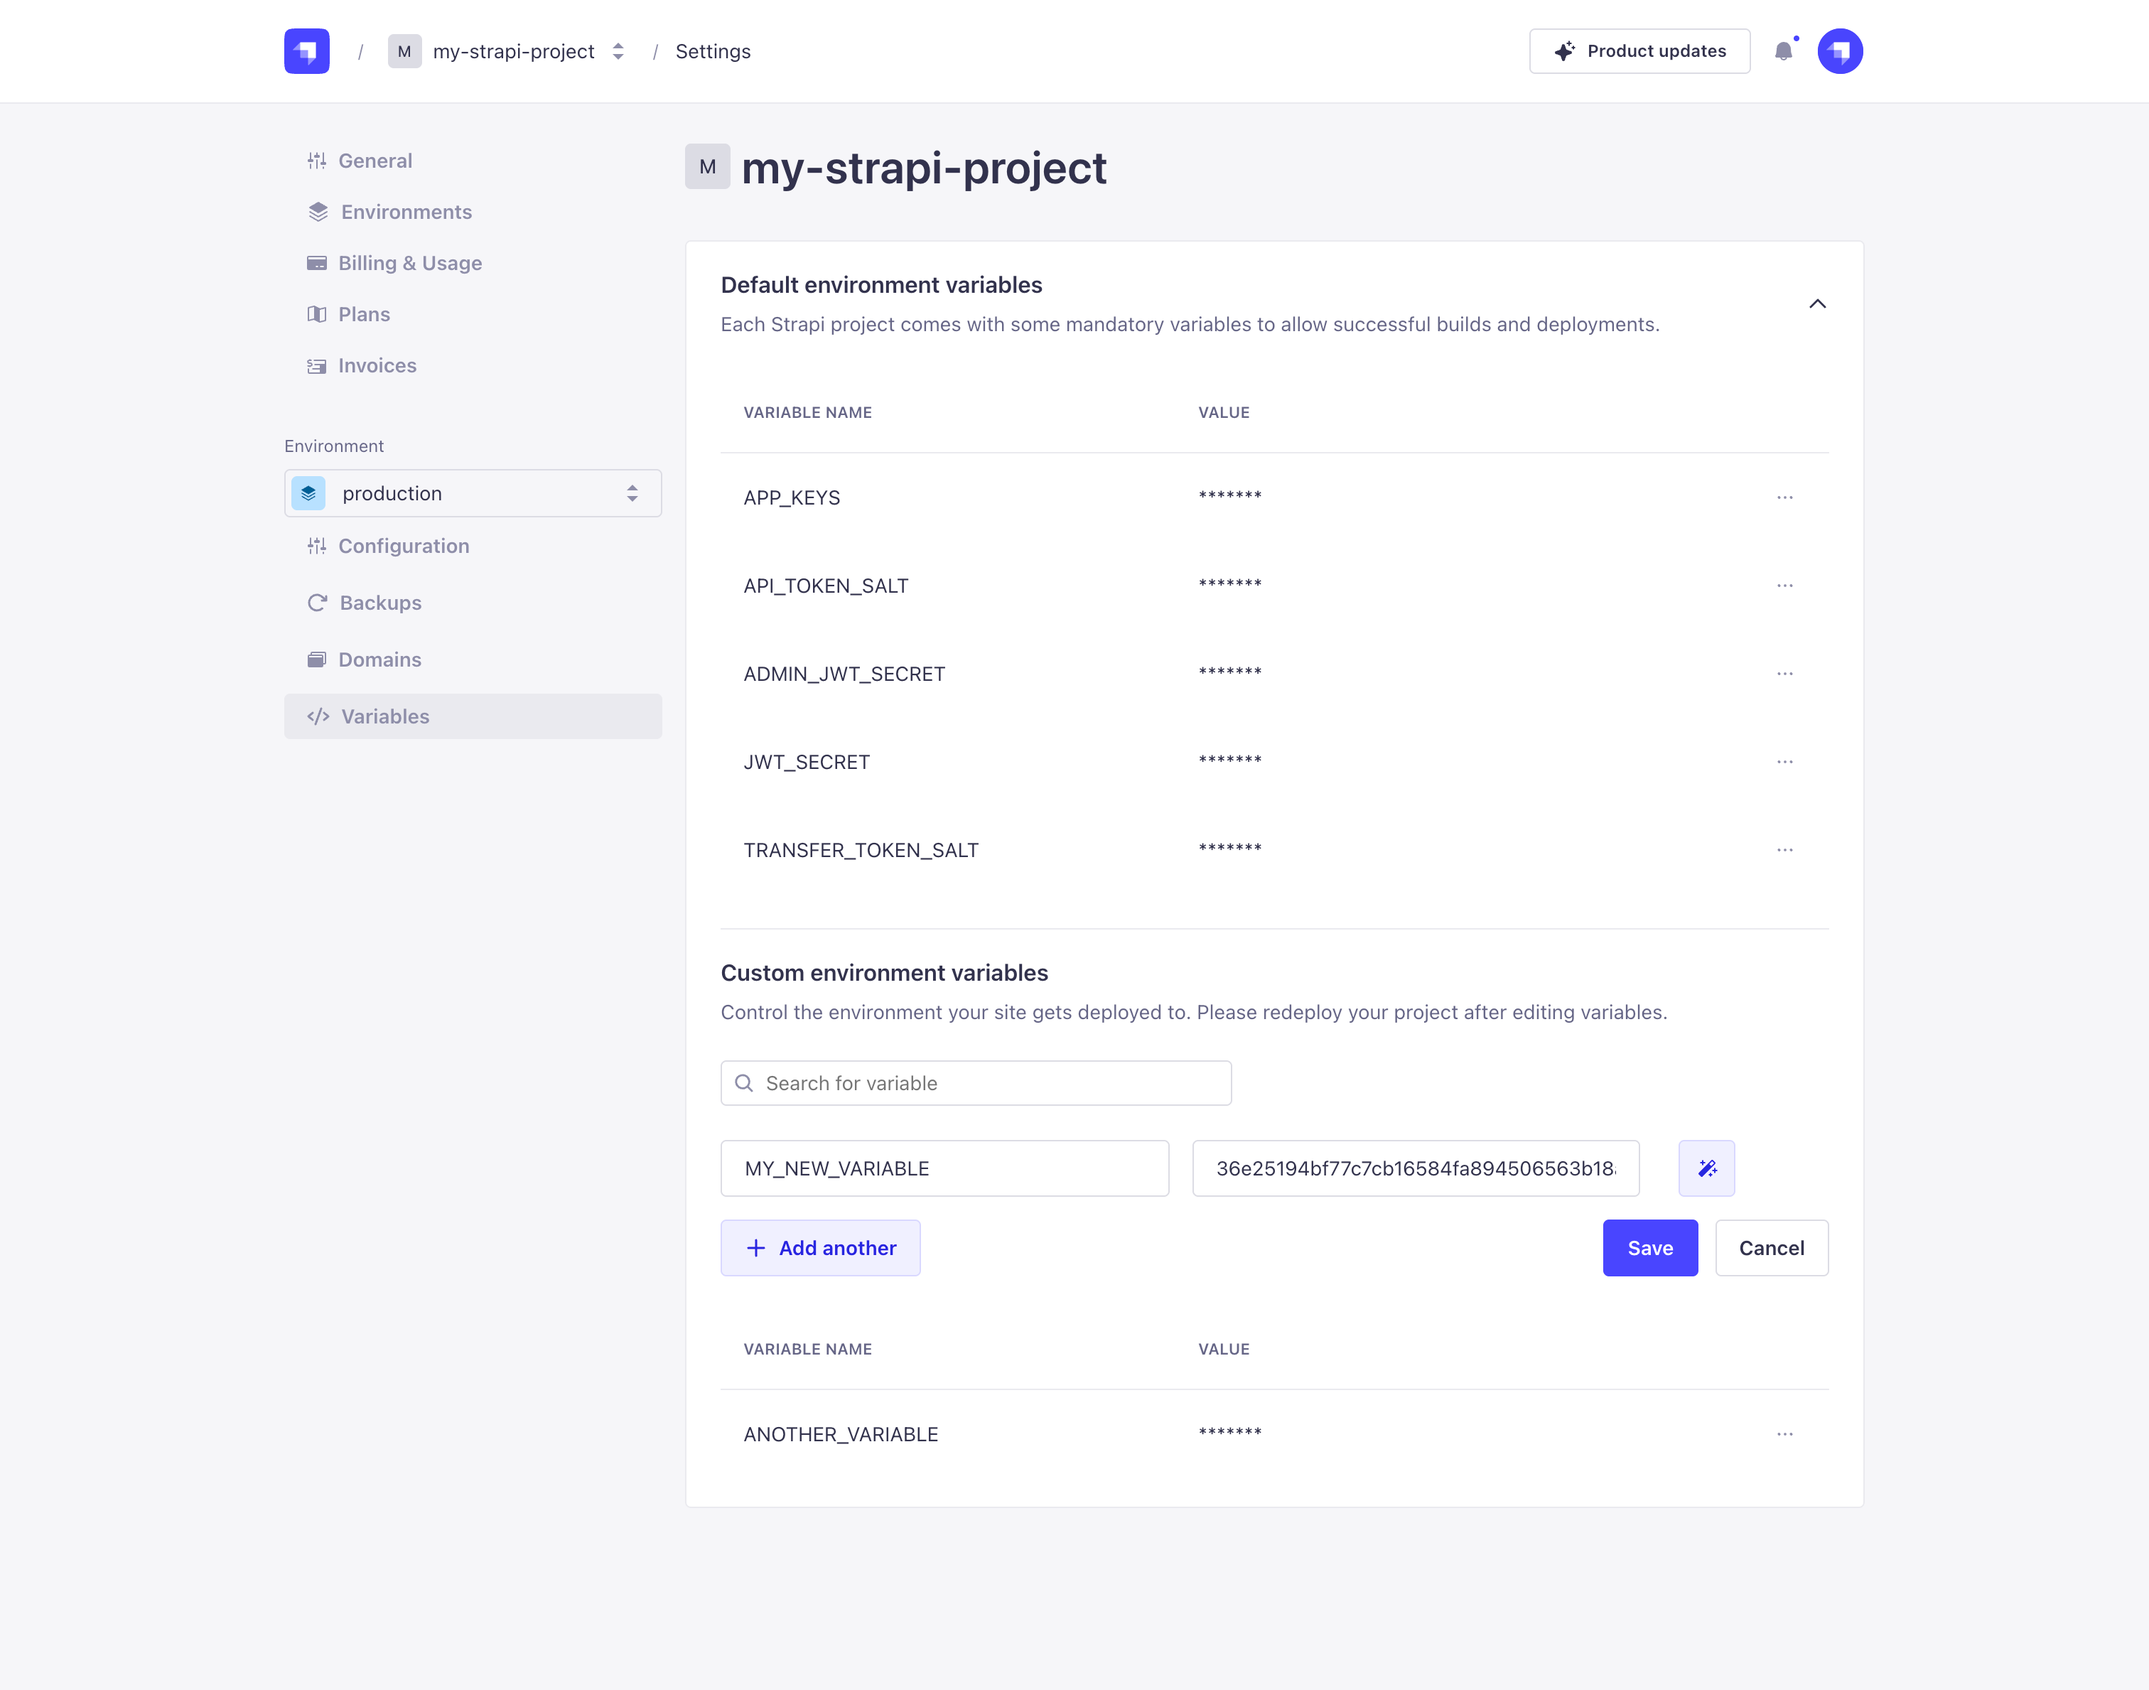
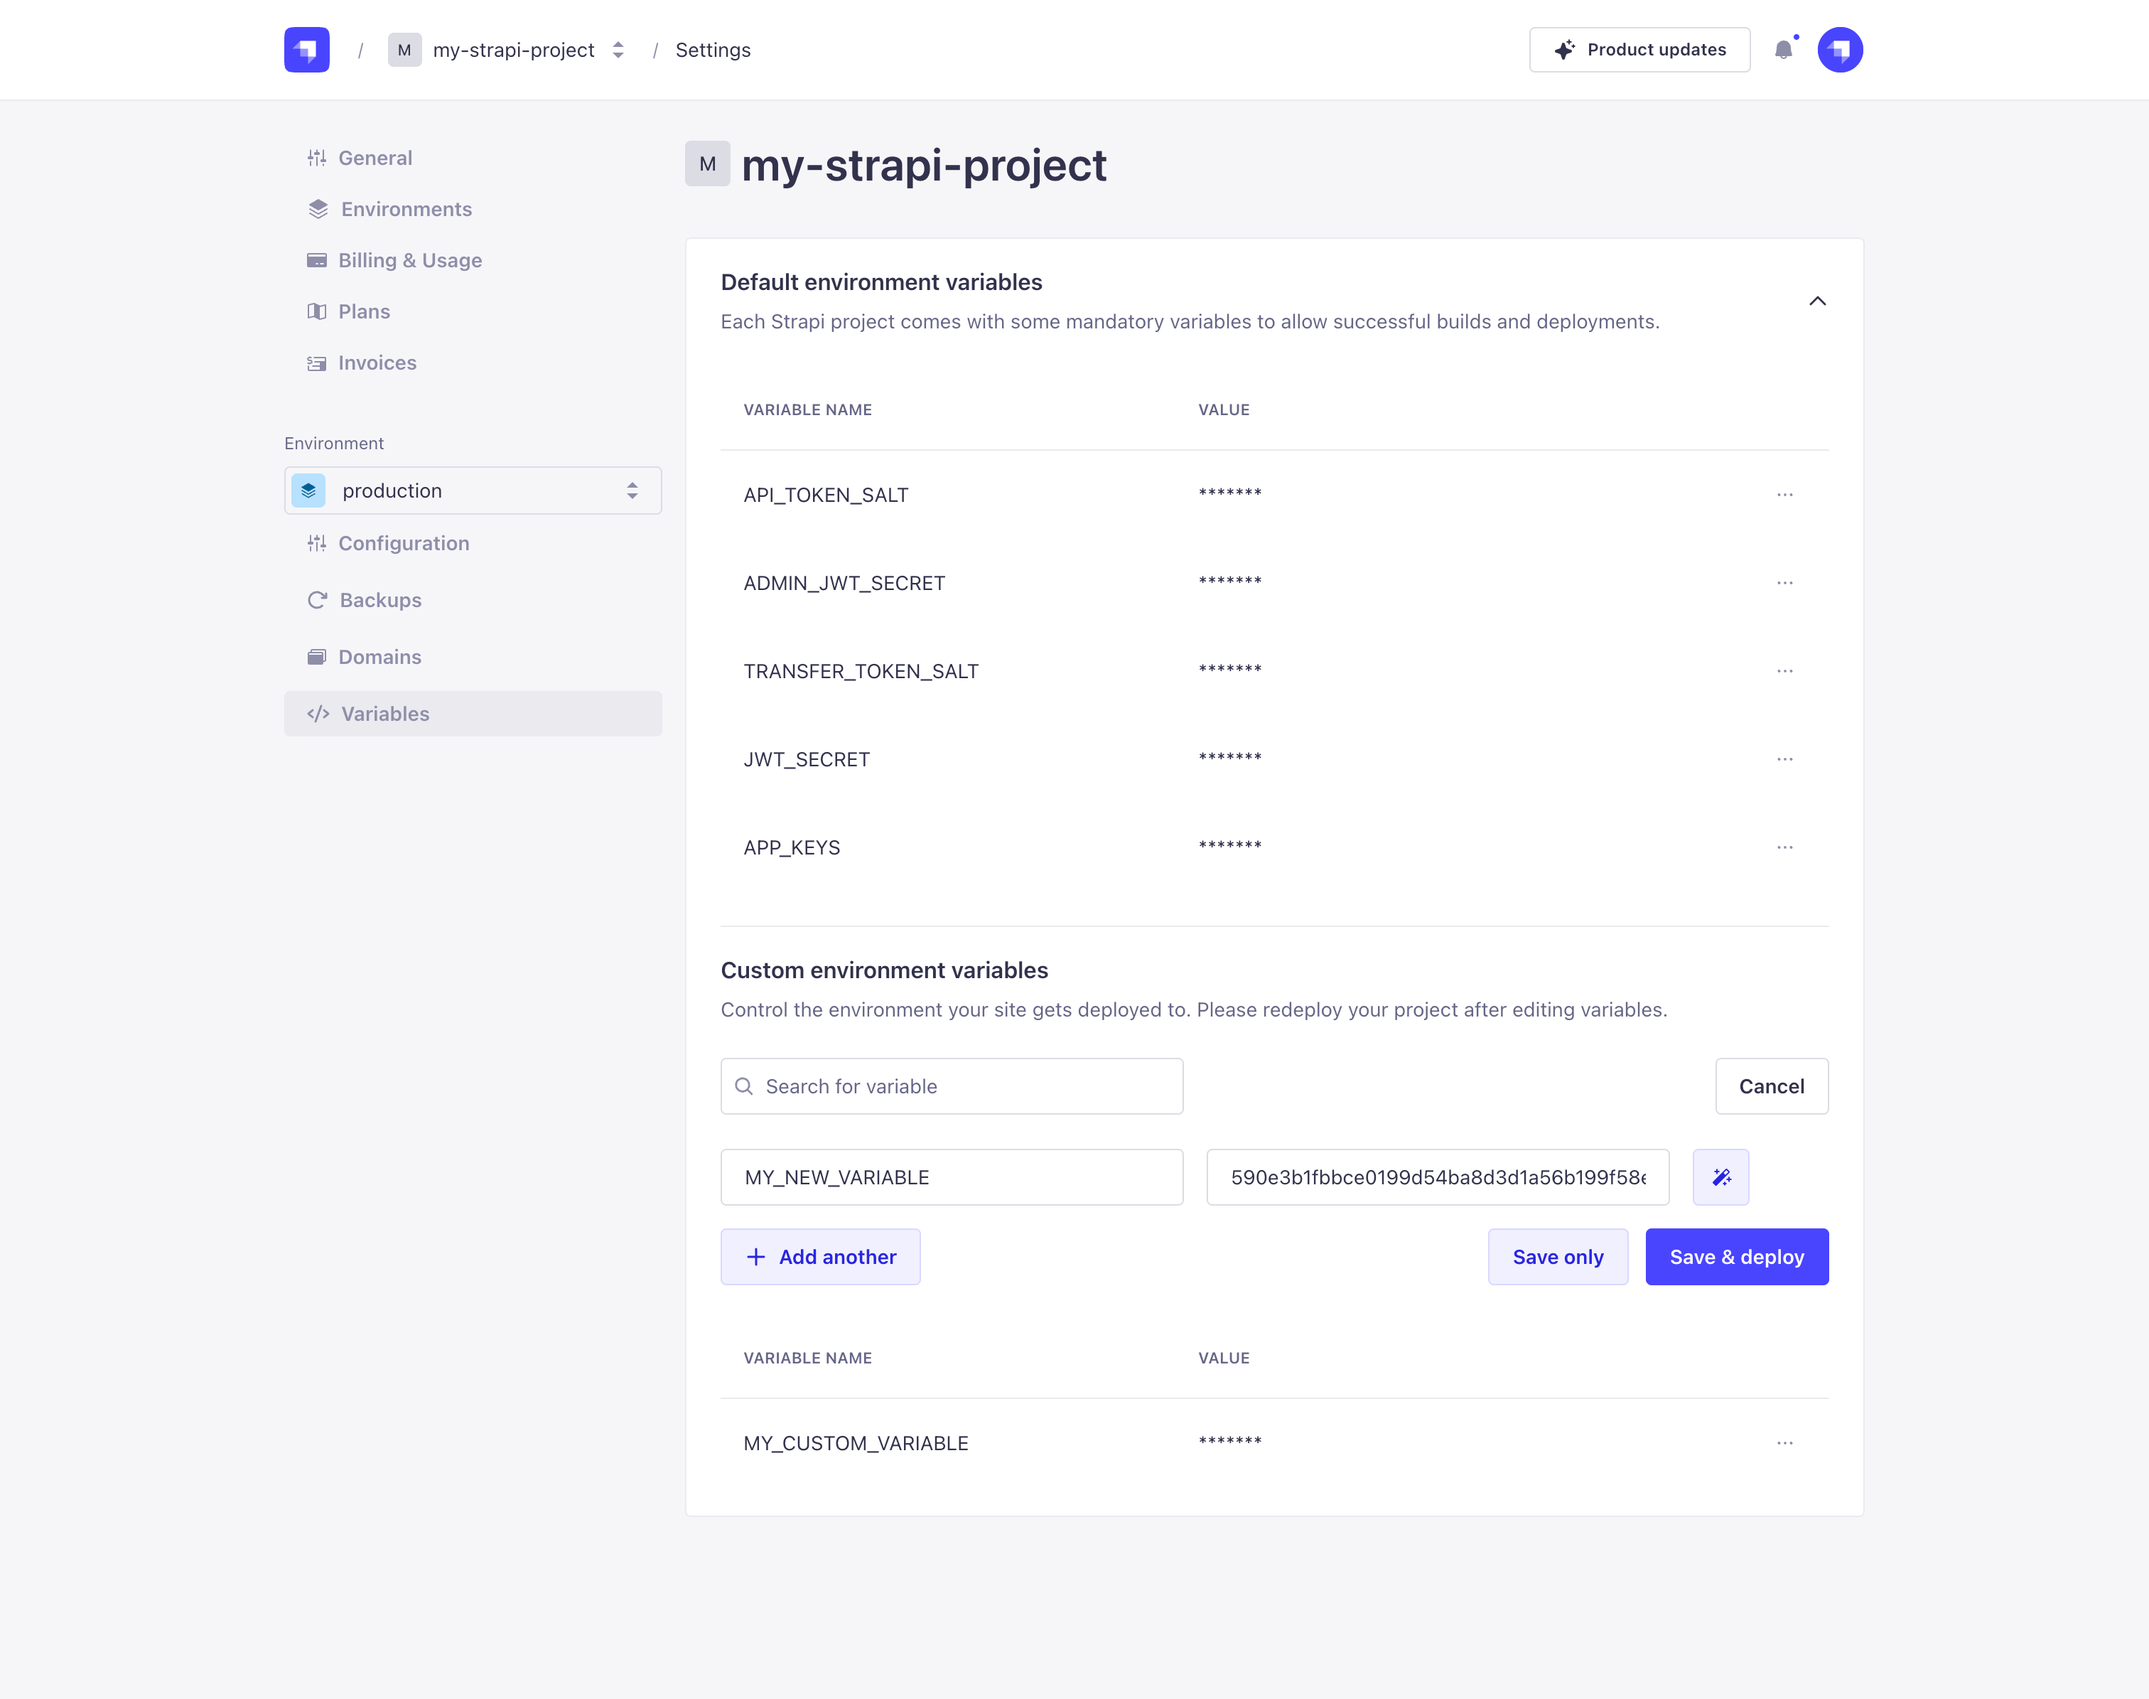
Save & deploy Cloud environment variables (#2729)
* chore: screenshots change

* chore: save & deploy added

diff --git a/docusaurus/docs/cloud/projects/settings.md b/docusaurus/docs/cloud/projects/settings.md
@@ -497,9 +497,9 @@ Hovering on an environment variable, either default or custom, displays the foll
 - <Icon name="eye" /> **Show value** to replace the `*` characters with the actual value of a variable.
 - <Icon name="copy" /> **Copy to clipboard** to copy the value of a variable.
 - <Icon name="dots-three" /> **Actions** to access the <Icon name="pencil-simple" /> Edit and <Icon name="trash-simple" /> Delete buttons.
-  - When editing a default variable, the *Name* cannot be modified and the *Value* can only be automatically generated using the <Icon name="magic-wand" /> Generate value button. Don't forget to **Save** at the end.
-  - When editing a custom variable, both the *Name* and *Value* can be modified by writing something new or by using the <Icon name="magic-wand" /> Generate value button. Don't forget to **Save** at the end.
-  - When deleting a variable, you will be asked to click on a **Confirm** button to confirm the deletion.
+  - When editing a default variable, the *Name* cannot be modified and the *Value* can only be automatically generated using the <Icon name="magic-wand" /> Generate value button. Don't forget to **Save**, or **Save & deploy** if you want the changes to take effect immediately.
+  - When editing a custom variable, both the *Name* and *Value* can be modified by writing something new or by using the <Icon name="magic-wand" /> Generate value button. Don't forget to **Save**, or **Save & deploy** if you want the changes to take effect immediately.
+  - When deleting a variable, you will be asked to confirm by selecting **Save**, or **Save & deploy** if you want the changes to take effect immediately.
 
 :::tip
 Use the search bar to find more quickly an environment variable in the list!
@@ -518,4 +518,4 @@ Instead of creating a new custom environment variable from scratch, you can also
 1. In the *Custom environment variables* section, click on the **Add variable** button.
 2. Write the *Name* and *Value* of the new environment variable in the same-named fields. Alternatively, you can click on the <Icon name="magic-wand" /> icon to generate automatically the name and value.
 3. (optional) Click on **Add another** to directly create one or more other custom environment variables.
-4. Click on the **Save** button to confirm the creation of the custom environment variables.
+4. Click on the **Save** button to confirm the creation of the custom environment variables. To apply your changes immediately, click on **Save & deploy**.
